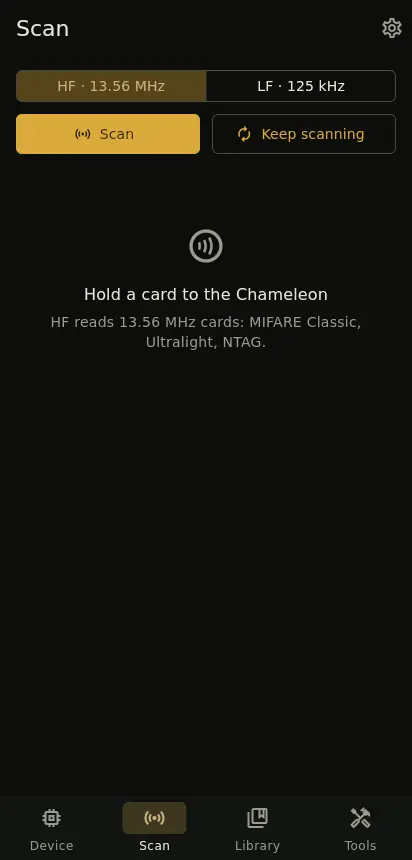
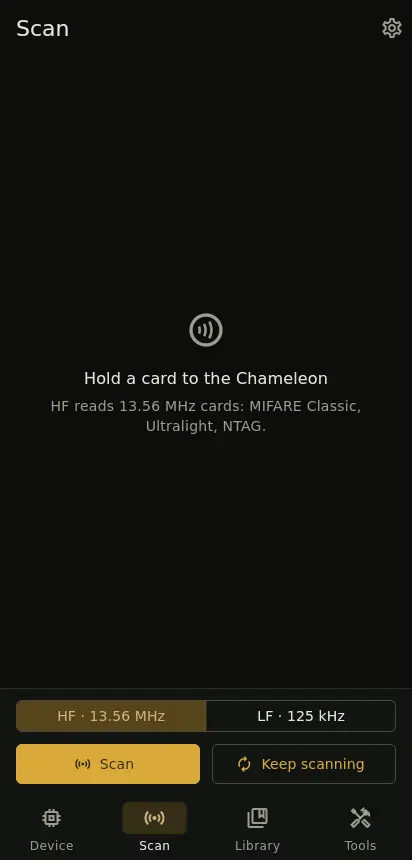
Scan tab: frequency switch and Scan buttons pinned at the bottom
Moves the HF | LF switch and the Scan / Keep scanning buttons into a bar above
the tab bar so they are in thumb reach; results scroll above it and the empty
states centre in the remaining space.

Claude-Session: https://claude.ai/code/session_018tikF3idVBUjHVzaCf51H6

diff --git a/chameleonultragui/lib/fork/scan/scan_page.dart b/chameleonultragui/lib/fork/scan/scan_page.dart
@@ -274,75 +274,88 @@ class _ScanPageState extends State<ScanPage> {
               title: localizations.no_supported,
               hint: localizations.lite_no_read,
             )
-          : ListView(
-              padding: const EdgeInsets.only(bottom: 24),
+          : Column(
               children: [
-                Padding(
-                  padding: const EdgeInsets.fromLTRB(16, 12, 16, 0),
-                  child: SegmentedButton<bool>(
-                    showSelectedIcon: false,
-                    style: SegmentedButton.styleFrom(
-                      minimumSize: const Size.fromHeight(44),
+                Expanded(
+                  child:
+                      _emptyState(context) ??
+                      ListView(
+                        padding: const EdgeInsets.only(bottom: 24),
+                        children: _result(context),
+                      ),
+                ),
+                _ControlsBar(
+                  children: [
+                    Padding(
+                      padding: const EdgeInsets.fromLTRB(16, 12, 16, 0),
+                      child: SegmentedButton<bool>(
+                        showSelectedIcon: false,
+                        style: SegmentedButton.styleFrom(
+                          minimumSize: const Size.fromHeight(44),
+                        ),
+                        segments: const [
+                          ButtonSegment(
+                            value: false,
+                            label: Text('HF · 13.56 MHz'),
+                          ),
+                          ButtonSegment(
+                            value: true,
+                            label: Text('LF · 125 kHz'),
+                          ),
+                        ],
+                        selected: {lf},
+                        onSelectionChanged: scanning
+                            ? null
+                            : (v) => setState(() {
+                                lf = v.first;
+                                _clear();
+                              }),
+                      ),
                     ),
-                    segments: const [
-                      ButtonSegment(
-                        value: false,
-                        label: Text('HF · 13.56 MHz'),
+                    Padding(
+                      padding: const EdgeInsets.fromLTRB(16, 12, 16, 12),
+                      child: Row(
+                        children: [
+                          Expanded(
+                            child: FilledButton.icon(
+                              style: FilledButton.styleFrom(
+                                minimumSize: const Size.fromHeight(48),
+                              ),
+                              onPressed: scanning ? null : _scan,
+                              icon: const Icon(Icons.sensors),
+                              label: Text(
+                                hf != null || lfCard != null
+                                    ? strings.scanAgain
+                                    : strings.scanAction,
+                              ),
+                            ),
+                          ),
+                          const SizedBox(width: 12),
+                          Expanded(
+                            child: OutlinedButton.icon(
+                              style: OutlinedButton.styleFrom(
+                                minimumSize: const Size.fromHeight(48),
+                              ),
+                              onPressed: busy && timer == null
+                                  ? null
+                                  : _toggleKeepScanning,
+                              icon: Icon(
+                                timer != null
+                                    ? Icons.stop_circle_outlined
+                                    : Icons.autorenew,
+                              ),
+                              label: Text(
+                                timer != null
+                                    ? strings.stopScanning
+                                    : strings.keepScanning,
+                              ),
+                            ),
+                          ),
+                        ],
                       ),
-                      ButtonSegment(value: true, label: Text('LF · 125 kHz')),
-                    ],
-                    selected: {lf},
-                    onSelectionChanged: scanning
-                        ? null
-                        : (v) => setState(() {
-                            lf = v.first;
-                            _clear();
-                          }),
-                  ),
+                    ),
+                  ],
                 ),
-                Padding(
-                  padding: const EdgeInsets.fromLTRB(16, 12, 16, 0),
-                  child: Row(
-                    children: [
-                      Expanded(
-                        child: FilledButton.icon(
-                          style: FilledButton.styleFrom(
-                            minimumSize: const Size.fromHeight(48),
-                          ),
-                          onPressed: scanning ? null : _scan,
-                          icon: const Icon(Icons.sensors),
-                          label: Text(
-                            hf != null || lfCard != null
-                                ? strings.scanAgain
-                                : strings.scanAction,
-                          ),
-                        ),
-                      ),
-                      const SizedBox(width: 12),
-                      Expanded(
-                        child: OutlinedButton.icon(
-                          style: OutlinedButton.styleFrom(
-                            minimumSize: const Size.fromHeight(48),
-                          ),
-                          onPressed: busy && timer == null
-                              ? null
-                              : _toggleKeepScanning,
-                          icon: Icon(
-                            timer != null
-                                ? Icons.stop_circle_outlined
-                                : Icons.autorenew,
-                          ),
-                          label: Text(
-                            timer != null
-                                ? strings.stopScanning
-                                : strings.keepScanning,
-                          ),
-                        ),
-                      ),
-                    ],
-                  ),
-                ),
-                ..._result(context),
               ],
             ),
     );
@@ -351,17 +364,6 @@ class _ScanPageState extends State<ScanPage> {
   List<Widget> _result(BuildContext context) {
     final strings = ForkStrings.of(context);
     final localizations = AppLocalizations.of(context)!;
-
-    if (notFound && timer == null) {
-      return [
-        const SizedBox(height: 40),
-        EmptyState(
-          icon: Icons.search_off,
-          title: localizations.no_card_found,
-          hint: strings.tryAnotherCard,
-        ),
-      ];
-    }
 
     if (lf && lfCard != null) {
       final card = lfCard!;
@@ -441,15 +443,53 @@ class _ScanPageState extends State<ScanPage> {
       ];
     }
 
-    if (timer != null || busy) return const [];
-    return [
-      const SizedBox(height: 40),
-      EmptyState(
-        icon: Icons.contactless_outlined,
-        title: strings.holdCard,
-        hint: lf ? strings.holdCardLf : strings.holdCardHf,
+    return const [];
+  }
+
+  // "No card found" and "hold a card", centred above the controls; null when there is a result.
+  Widget? _emptyState(BuildContext context) {
+    final strings = ForkStrings.of(context);
+    final localizations = AppLocalizations.of(context)!;
+    if (notFound && timer == null) {
+      return EmptyState(
+        icon: Icons.search_off,
+        title: localizations.no_card_found,
+        hint: strings.tryAnotherCard,
+      );
+    }
+    if ((lf && lfCard != null) || (!lf && hf != null)) return null;
+    if (timer != null || busy) return const SizedBox.shrink();
+    return EmptyState(
+      icon: Icons.contactless_outlined,
+      title: strings.holdCard,
+      hint: lf ? strings.holdCardLf : strings.holdCardHf,
+    );
+  }
+}
+
+// Frequency switch and Scan buttons, pinned above the tab bar within thumb reach.
+class _ControlsBar extends StatelessWidget {
+  final List<Widget> children;
+
+  const _ControlsBar({required this.children});
+
+  @override
+  Widget build(BuildContext context) {
+    final scheme = Theme.of(context).colorScheme;
+    return DecoratedBox(
+      decoration: BoxDecoration(
+        color: scheme.surfaceContainerLow,
+        border: Border(top: BorderSide(color: scheme.outlineVariant)),
       ),
-    ];
+      child: SafeArea(
+        top: false,
+        child: Column(
+          mainAxisSize: MainAxisSize.min,
+          crossAxisAlignment: CrossAxisAlignment.stretch,
+          children: children,
+        ),
+      ),
+    );
   }
 }
 

diff --git a/docs/FORK_PLAN.md b/docs/FORK_PLAN.md
@@ -30,7 +30,7 @@ https://claude.ai/artifact/B3GwzD9b8QZXHQ1zKDYvH4 — tick items as they land on
 - [x] Device settings as a grouped page (Firmware, Buttons, Display, Bluetooth, Power, Danger zone)
 
 ## 3. Scan tab
-- [x] HF | LF switch with one Scan button; Keep scanning as a toggle
+- [x] HF | LF switch with one Scan button; Keep scanning as a toggle; controls pinned at the bottom
 - [x] Result card: type headline, mono UID/SAK/ATQA/ATS with copy, PRNG/backdoor chips; card type override in ⋮
 - [x] MIFARE Classic / Ultralight steps: upstream's own panels shown under the result (kept as-is;
       the fork does not reimplement key recovery)

diff --git a/FORK_CHANGELOG.md b/FORK_CHANGELOG.md
@@ -3,6 +3,11 @@
 Release notes for this fork's GitHub releases. Each `## <version>` section becomes the notes of
 the release tagged `v<version>` (see docs/FORK_RELEASING.md). Upstream's history is in its own releases.
 
+## 2.3.3
+
+- Scan tab: the HF | LF switch and the Scan / Keep scanning buttons sit at the bottom, above the
+  tab bar, within thumb reach. Results scroll above them.
+
 ## 2.3.2
 
 - Device tab: the Emulate | Read switch is now a small mode icon in the header. Tapping it opens a

diff --git a/README.md b/README.md
@@ -62,7 +62,7 @@ bottom.
 
 ### Scan
 
-Pick HF or LF, press Scan. The result shows the card type and identifiers you can tap to copy, and
+Pick HF or LF and press Scan; both sit at the bottom, within thumb reach. The result shows the card type and identifiers you can tap to copy, and
 saves to the library in one step.
 
 <table>
